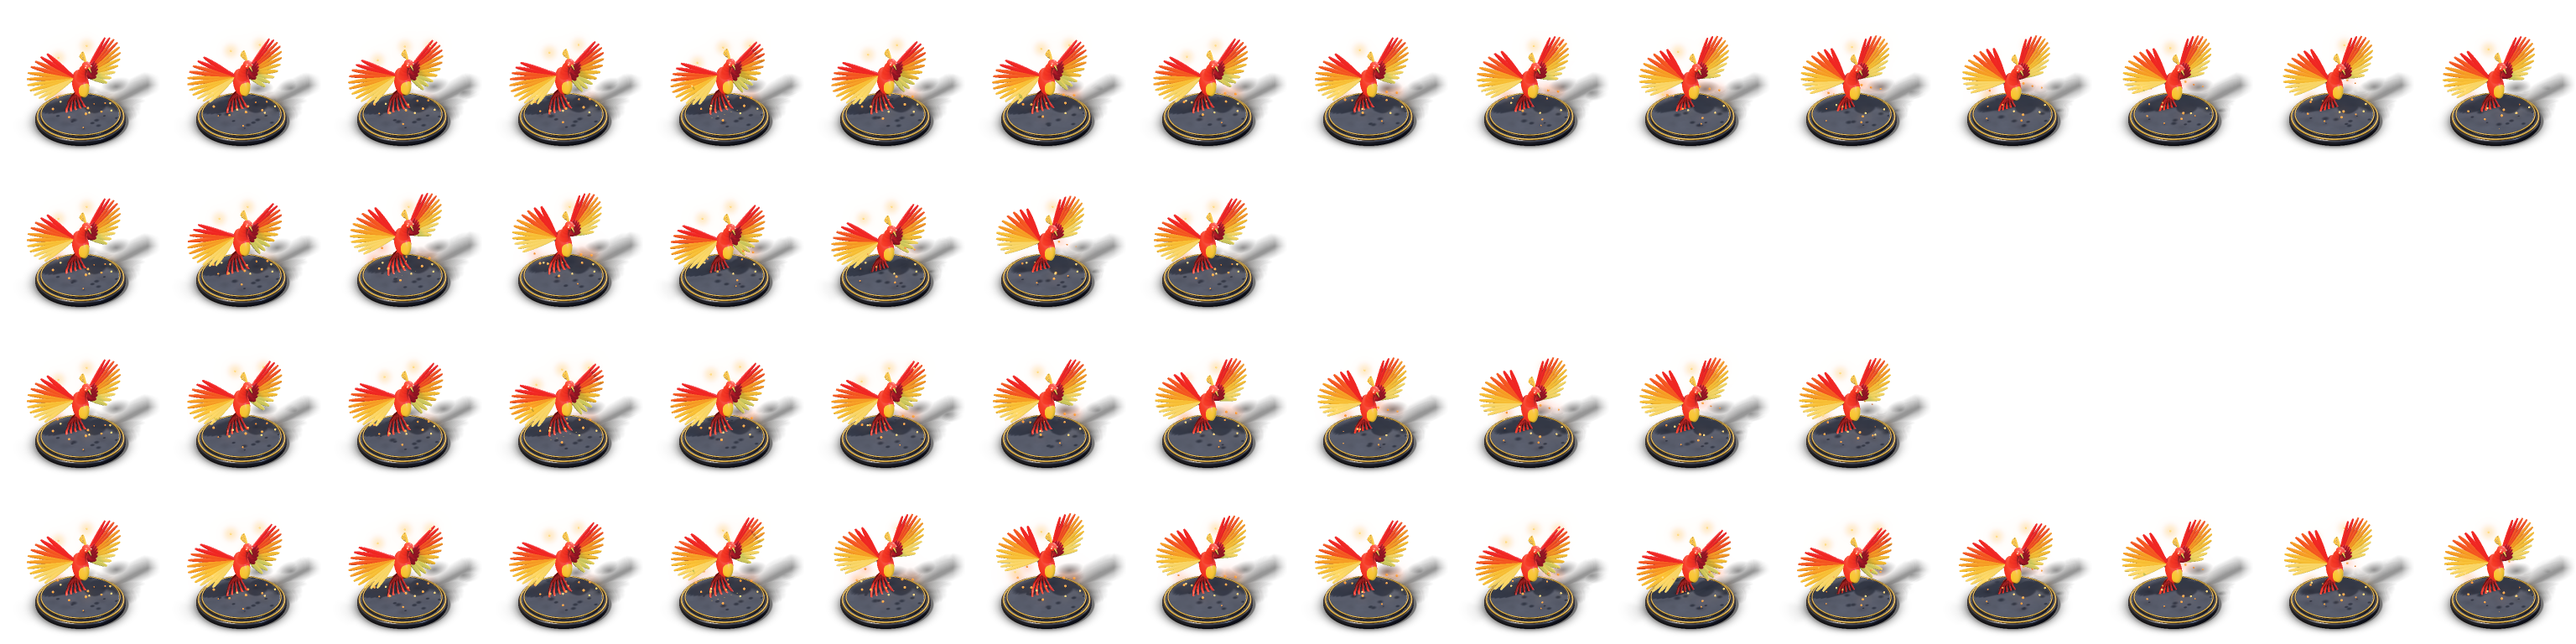
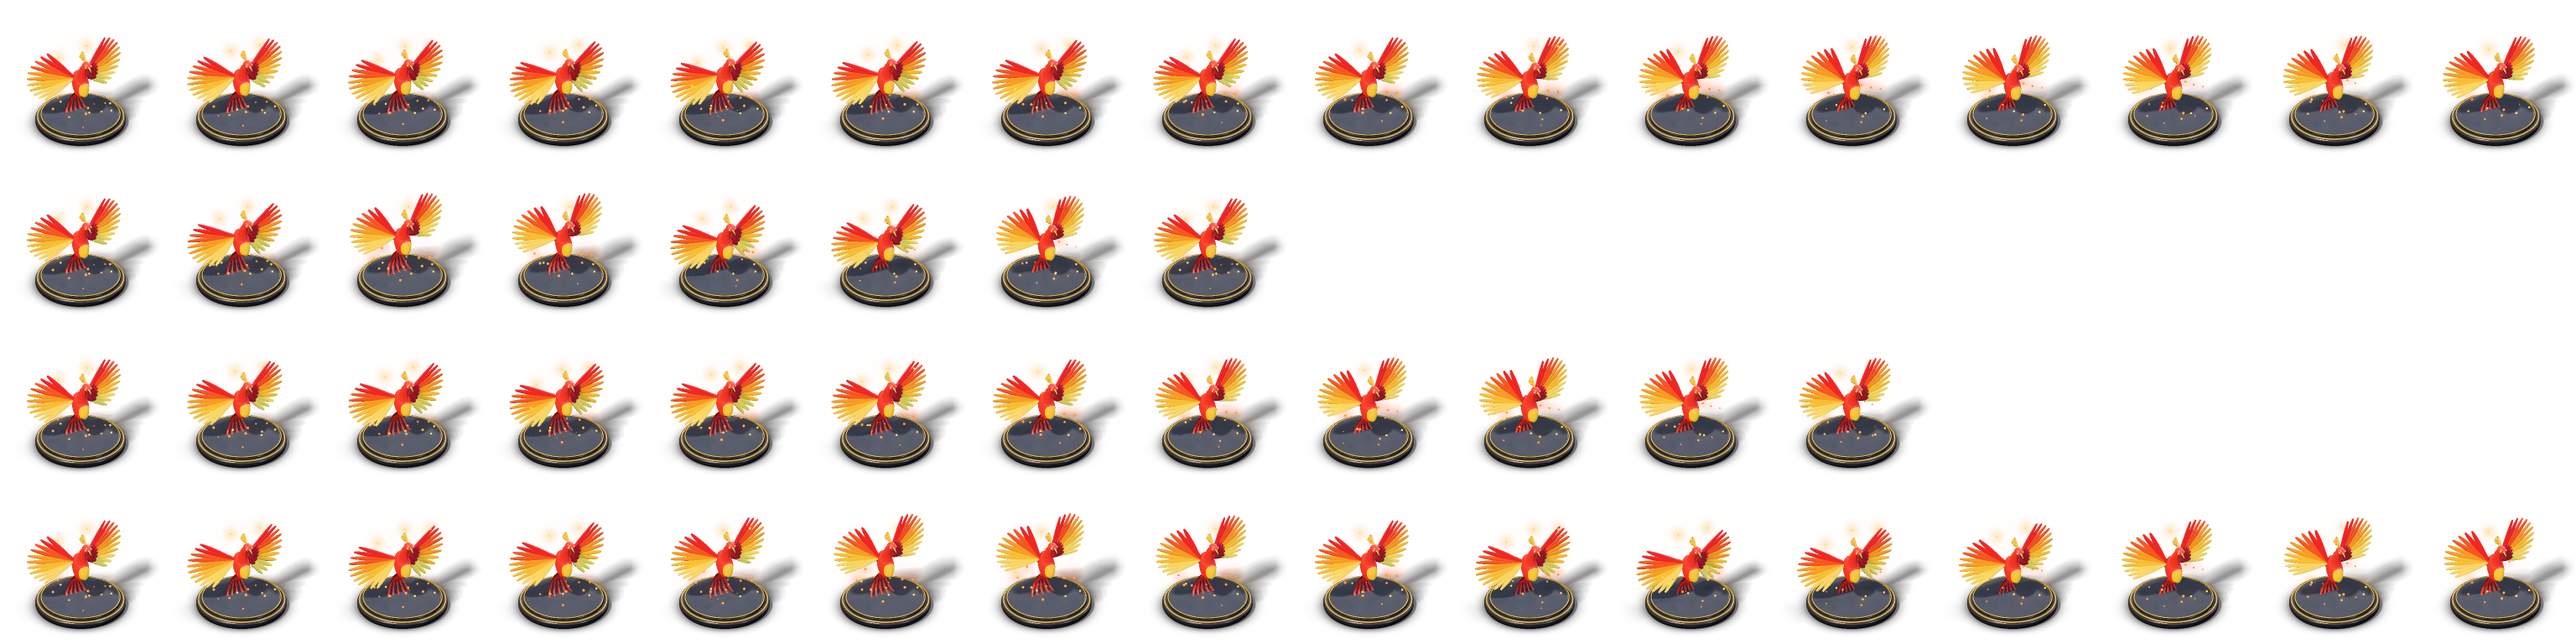
figurines: glowing materials (glow: sparks, embers, motes, runes) cast no shadow and no occlusion (Mat shadow=False, Scene.casters); Manga's Hōō rebuilt: the small black spots moving on its base (the embers' shadows) are gone

diff --git a/app/tools/sprites/render.py b/app/tools/sprites/render.py
@@ -278,8 +278,9 @@ class Mat:
     pw world point, n world normal, all (M, 3); returns a dict of overrides."""
 
     def __init__(self, albedo="#888888", metal=0.0, rough=0.5, emissive=None, emit=0.0, pattern=None,
-                 sss=0.0, clearcoat=0.0, glass=False):
+                 sss=0.0, clearcoat=0.0, glass=False, shadow=True):
         self.albedo = srgb(albedo)
+        self.shadow = shadow         # False: casts no shadow (sparks, embers, motes of light)
         self.metal, self.rough = metal, rough
         self.emissive = srgb(emissive) * emit if emissive else None
         self.pattern = pattern
@@ -319,6 +320,18 @@ class Scene:
         for part in self.parts[first:]:
             part.scale = (s, c)
         return self
+
+    def casters(self):
+        """The scene for the shadows: without the parts whose material casts none
+        (the same scene when every part casts)."""
+        if all(part.mat.shadow or part.op != "add" for part in self.parts):
+            return self
+        sc = self.__dict__.get("_casters")
+        if sc is None:
+            sc = Scene()
+            sc.parts = [part for part in self.parts if part.mat.shadow or part.op != "add"]
+            self._casters = sc
+        return sc
 
     def has_glass(self):
         return any(part.mat.glass for part in self.parts)
@@ -546,13 +559,13 @@ def render(scene, size=192, ss=2, view=2.0, center=(0.0, 0.62, 0.0), ground=True
         ao = torch.ones_like(met)
         for k in range(1, 6):
             h = 0.03 * k
-            ao = ao - (h - scene.dist(p + nrm * h)).clamp_min(0) * (0.5 ** k) * 9.0
+            ao = ao - (h - scene.casters().dist(p + nrm * h)).clamp_min(0) * (0.5 ** k) * 9.0
         ao = ao.clamp(0.15, 1)
         # soft shadow from the key light
         sh = torch.ones_like(met)
         ts = torch.full_like(met, 0.02)
         for _ in range(48):
-            dd = scene.dist(p + nrm * 0.004 + KEY * ts[:, None])
+            dd = scene.casters().dist(p + nrm * 0.004 + KEY * ts[:, None])
             sh = torch.minimum(sh, 10.0 * dd / ts)
             ts = ts + dd.clamp(0.01, 0.15)
         sh = sh.clamp(0, 1)
@@ -702,11 +715,11 @@ def render(scene, size=192, ss=2, view=2.0, center=(0.0, 0.62, 0.0), ground=True
                 occ = torch.zeros(sel.shape[0], device=DEV)
                 for k in range(1, 7):
                     h = 0.05 * k
-                    occ = occ + (h - scene.dist(pg + vec(0, h, 0))).clamp_min(0) * (0.6 ** k) * 6.0
+                    occ = occ + (h - scene.casters().dist(pg + vec(0, h, 0))).clamp_min(0) * (0.6 ** k) * 6.0
                 sh = torch.ones(sel.shape[0], device=DEV)
                 ts = torch.full_like(sh, 0.02)
                 for _ in range(40):
-                    q = scene.dist(pg + KEY * ts[:, None])
+                    q = scene.casters().dist(pg + KEY * ts[:, None])
                     sh = torch.minimum(sh, 6.0 * q / ts)
                     ts = ts + q.clamp(0.01, 0.2)
                 sh = sh.clamp(0, 1)

diff --git a/app/tools/sprites/models.py b/app/tools/sprites/models.py
@@ -57,7 +57,8 @@ def armor(hexcol, rough=0.38, lines=7.0, wear=0.35):
 
 
 def glow(hexcol, k=6.0):
-    return Mat(hexcol, metal=0.0, rough=0.2, emissive=hexcol, emit=k * 0.4)
+    """A glowing material: it gives light, so it casts no shadow (sparks, embers, runes)."""
+    return Mat(hexcol, metal=0.0, rough=0.2, emissive=hexcol, emit=k * 0.4, shadow=False)
 
 
 # ─── NNUE dev: the Sentinel, a heavy war robot ──────────────────────────────
